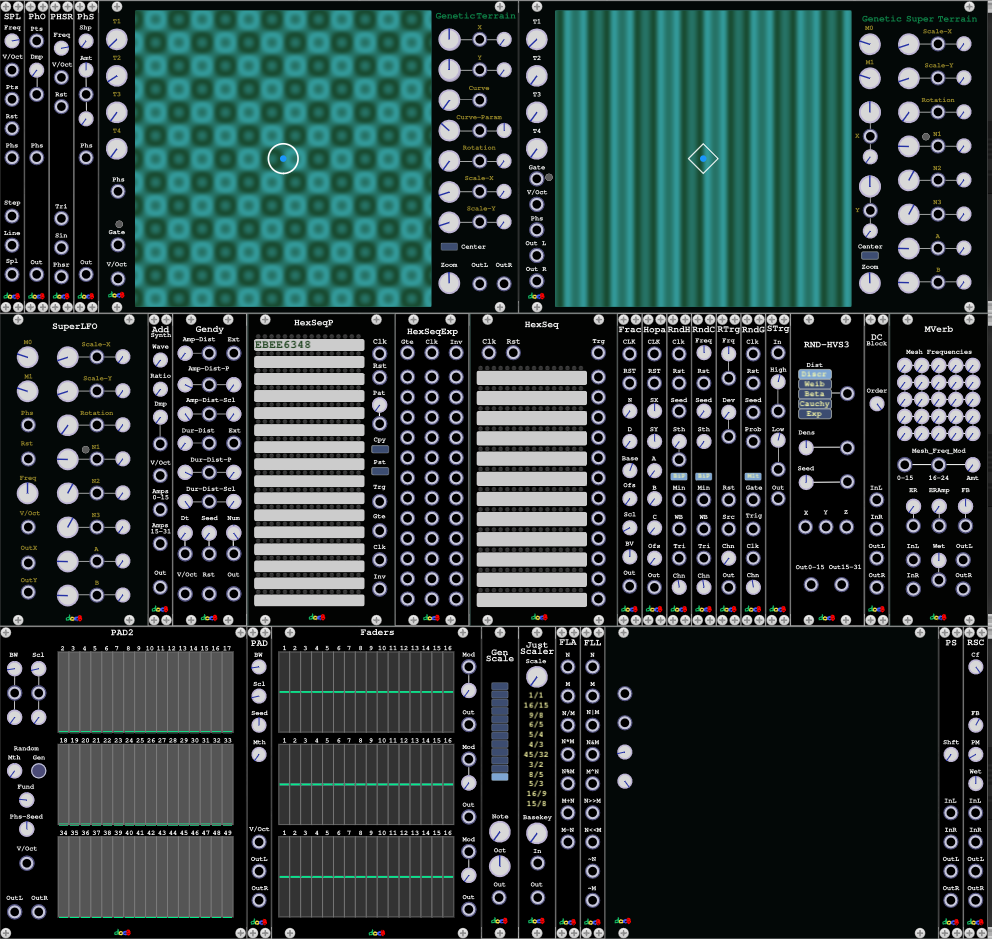
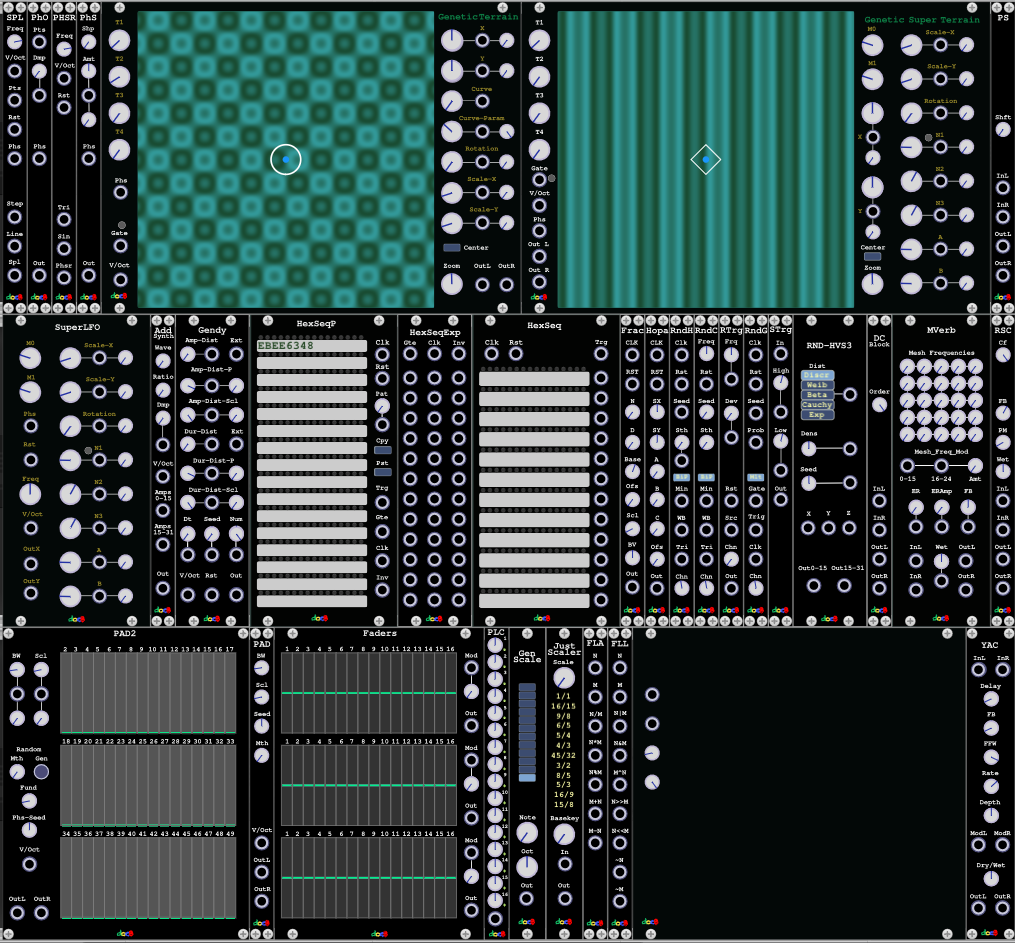
update readme

diff --git a/README.md b/README.md
@@ -2,6 +2,9 @@
 
 Some VCVRack modules
 
+New modules in 2.1.0: [PAD2](#pad2), [PhO](#pho), [PhS](#phs), [PHSR](#phsr), [SPL](#spl), [YAC](#yac),[Faders](#faders),[PLC](#plc)
+
+
 ![](images/allmodules.png?raw=true)
 
 <!-- START doctoc generated TOC please keep comment here to allow auto update -->
@@ -27,6 +30,7 @@ Some VCVRack modules
   - [PS](#ps)
   - [RSC](#rsc)
   - [MVerb](#mverb)
+  - [YAC](#yac)
 - [Random](#random)
   - [RndH,RndC](#rndhrndc)
   - [RndG](#rndg)
@@ -38,6 +42,7 @@ Some VCVRack modules
   - [Frac and Hopa](#frac-and-hopa)
 - [Others](#others)
   - [Faders](#faders)
+  - [PLC](#plc)
   - [FLA and FFL](#fla-and-ffl)
   - [STrg](#strg)
   - [JTScaler](#jtscaler)
